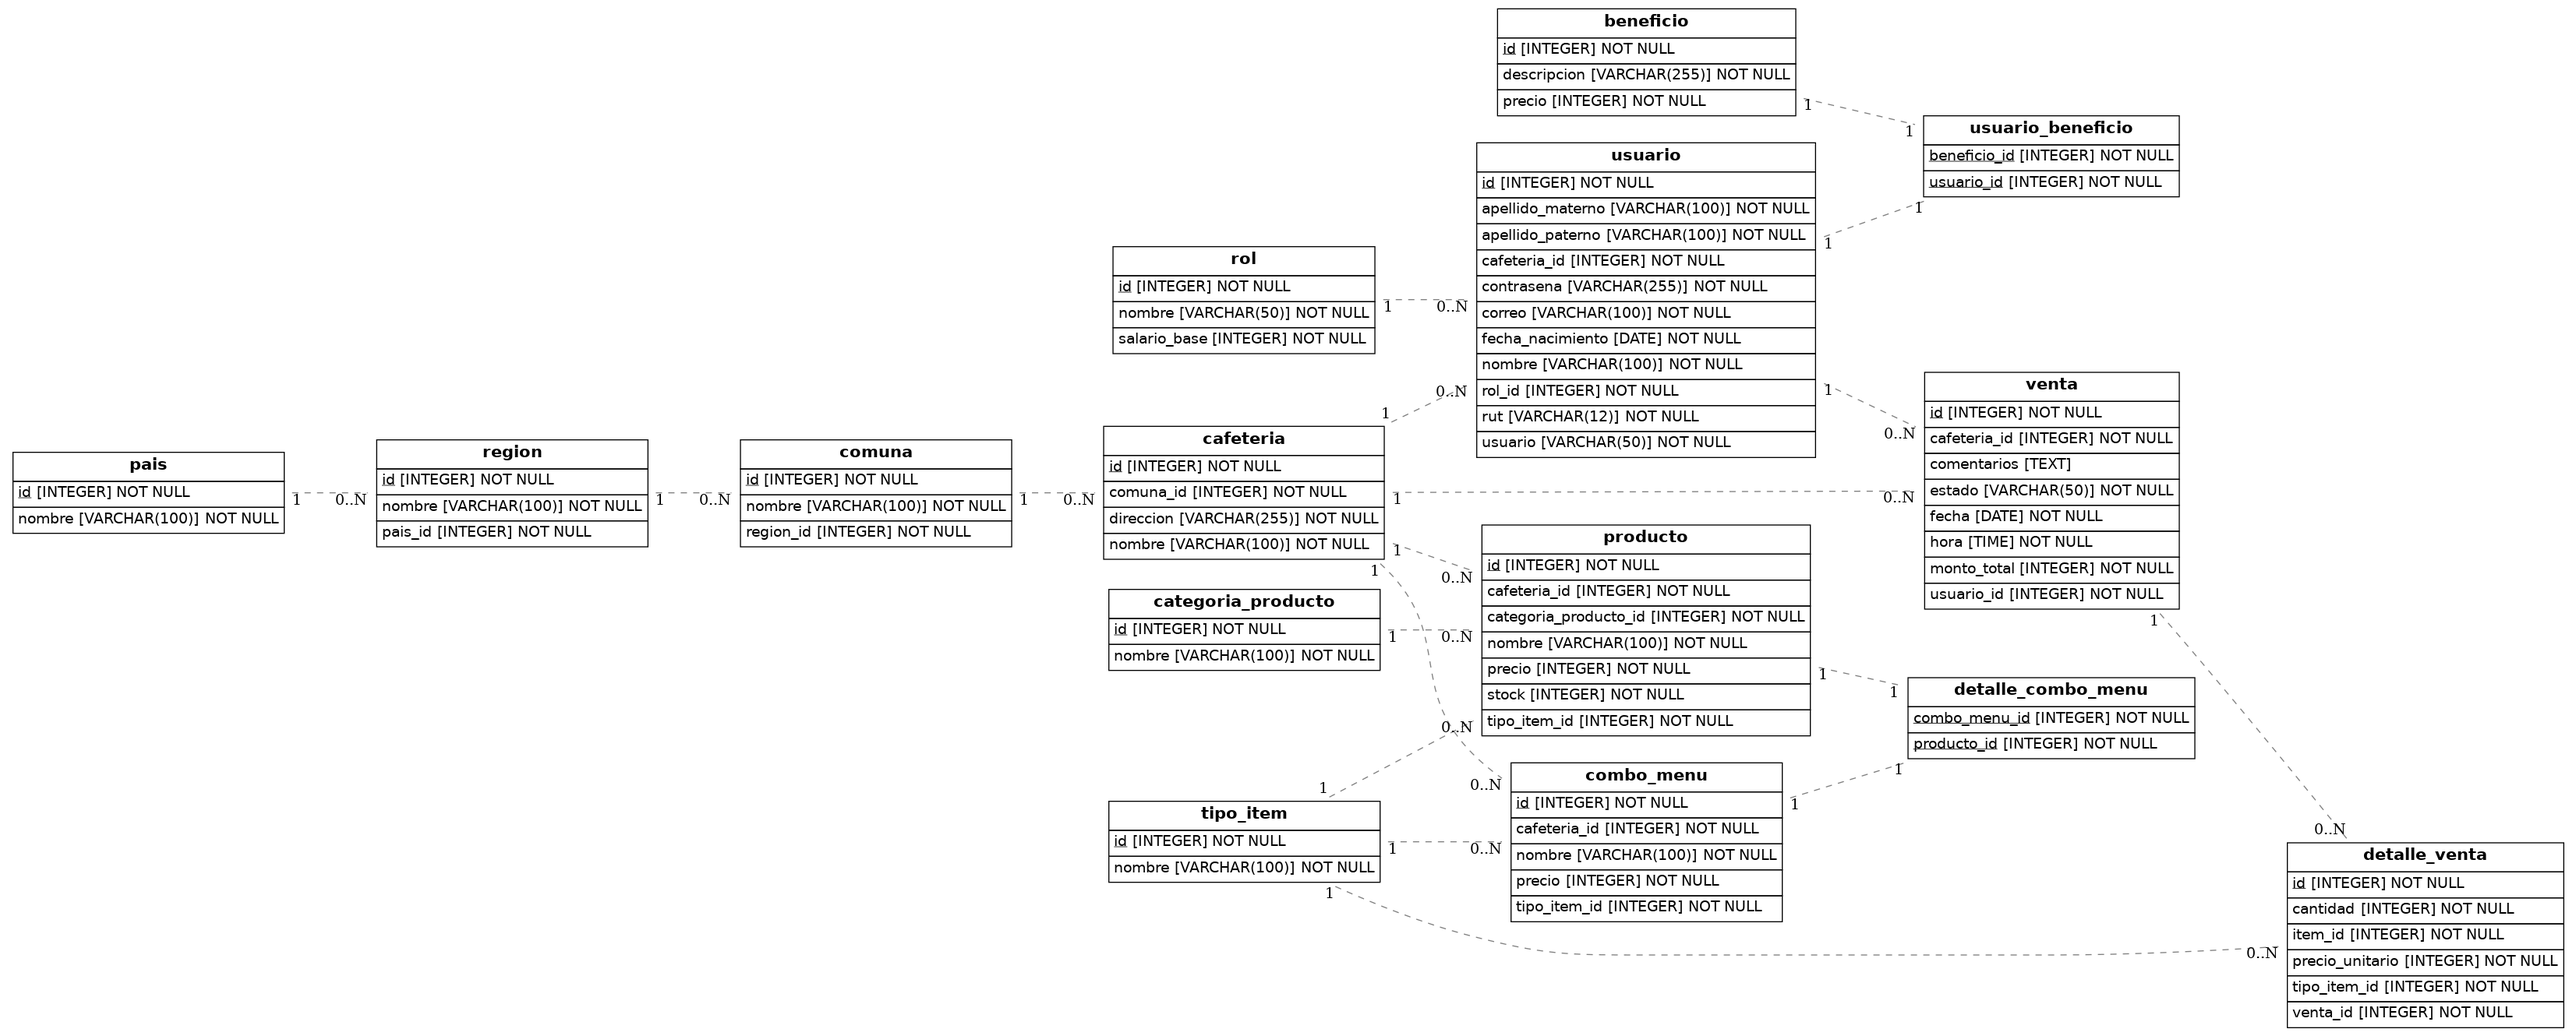
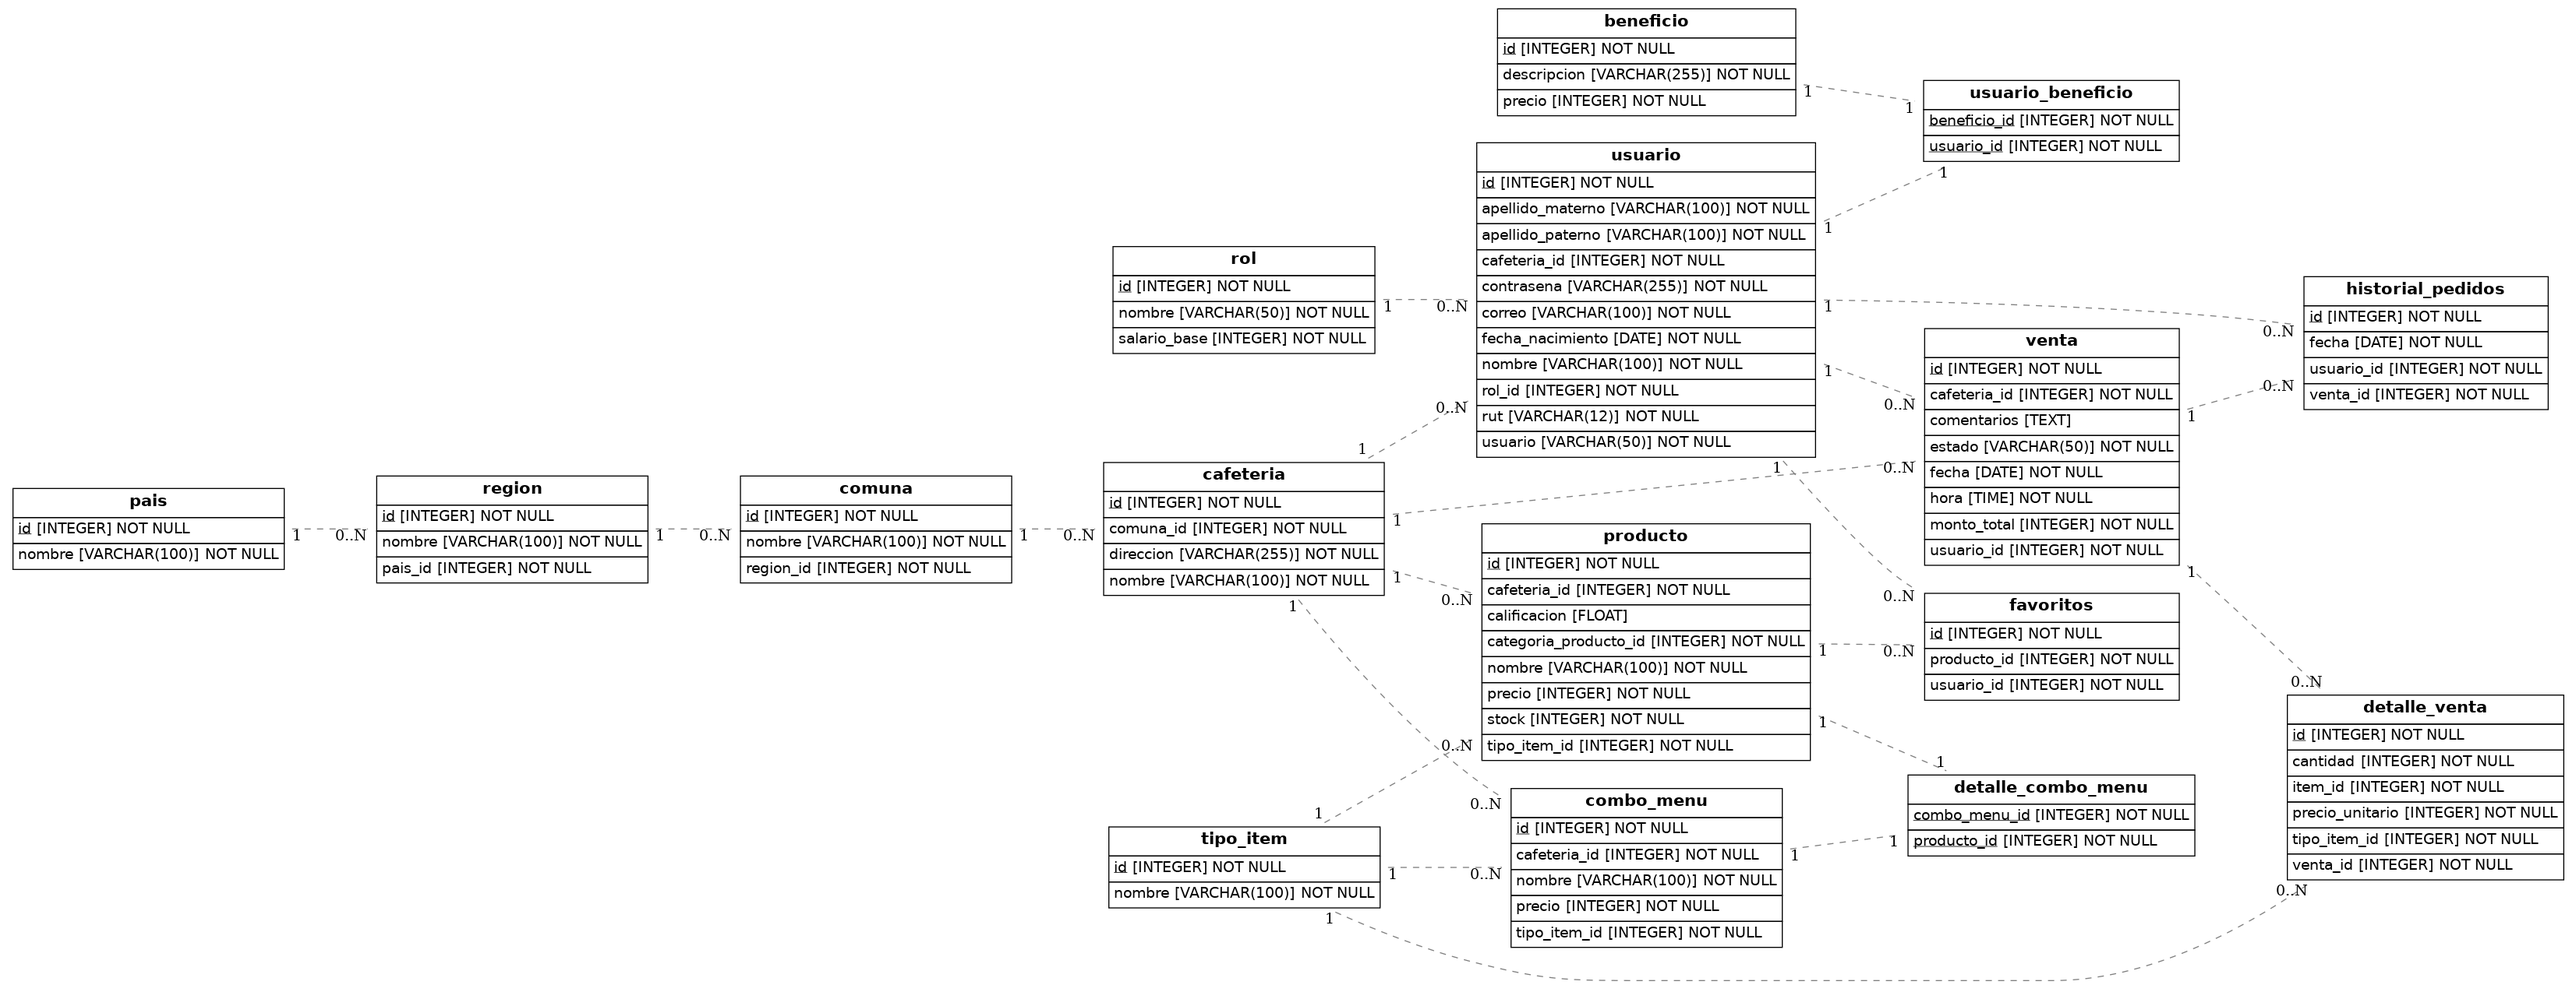
new diagram

diff --git a/src/models.py b/src/models.py
@@ -1,6 +1,6 @@
 import os
 import sys
-from sqlalchemy import Column, ForeignKey, Integer, String, Date, Time, Table, Text
+from sqlalchemy import Column, ForeignKey, Integer, String, Date, Time, Table, Text, Float, Boolean
 from sqlalchemy.orm import relationship, declarative_base
 from sqlalchemy import create_engine
 from eralchemy2 import render_er
@@ -13,7 +13,6 @@ class Pais(Base):
     id = Column(Integer, primary_key=True, autoincrement=True)
     nombre = Column(String(100), nullable=False)
 
-    # Relación con regiones
     regiones = relationship('Region')
 
 # Clase Región
@@ -22,11 +21,9 @@ class Region(Base):
     id = Column(Integer, primary_key=True, autoincrement=True)
     nombre = Column(String(100), nullable=False)
 
-    # Foreign Key para país
     pais_id = Column(Integer, ForeignKey('pais.id'), nullable=False)
     pais = relationship('Pais')
 
-    # Relación con comunas
     comunas = relationship('Comuna')
 
 # Clase Comuna
@@ -35,7 +32,6 @@ class Comuna(Base):
     id = Column(Integer, primary_key=True, autoincrement=True)
     nombre = Column(String(100), nullable=False)
 
-    # Foreign Key para región
     region_id = Column(Integer, ForeignKey('region.id'), nullable=False)
     region = relationship('Region')
 
@@ -59,7 +55,22 @@ usuario_beneficio = Table('usuario_beneficio', Base.metadata,
     Column('beneficio_id', Integer, ForeignKey('beneficio.id'), primary_key=True)
 )
 
-# Clase Usuario (anteriormente User)
+# Nueva tabla Favoritos
+class Favoritos(Base):
+    __tablename__ = 'favoritos'
+    id = Column(Integer, primary_key=True, autoincrement=True)
+    usuario_id = Column(Integer, ForeignKey('usuario.id'), nullable=False)
+    producto_id = Column(Integer, ForeignKey('producto.id'), nullable=False)
+
+# Nueva tabla HistorialPedidos
+class HistorialPedidos(Base):
+    __tablename__ = 'historial_pedidos'
+    id = Column(Integer, primary_key=True, autoincrement=True)
+    usuario_id = Column(Integer, ForeignKey('usuario.id'), nullable=False)
+    venta_id = Column(Integer, ForeignKey('venta.id'), nullable=False)
+    fecha = Column(Date, nullable=False)
+
+# Clase Usuario
 class Usuario(Base):
     __tablename__ = 'usuario'
     id = Column(Integer, primary_key=True, autoincrement=True)
@@ -69,67 +80,57 @@ class Usuario(Base):
     rut = Column(String(12), unique=True, nullable=False)
     fecha_nacimiento = Column(Date, nullable=False)
     
-    # Nuevos campos para el login
-    usuario = Column(String(50), unique=True, nullable=False)  # Usuario único para el login
-    correo = Column(String(100), unique=True, nullable=False)  # Correo único para el login
-    contrasena = Column(String(255), nullable=False)  # Contraseña encriptada para el login
+    usuario = Column(String(50), unique=True, nullable=False)  
+    correo = Column(String(100), unique=True, nullable=False)  
+    contrasena = Column(String(255), nullable=False)  
 
-    # Foreign Key y Relaciones
     rol_id = Column(Integer, ForeignKey('rol.id'), nullable=False)
     rol = relationship('Rol')
 
-    # Relación con beneficios a través de la tabla intermedia
     beneficios = relationship('Beneficio', secondary=usuario_beneficio)
-
-    # Foreign Key para la cafetería
     cafeteria_id = Column(Integer, ForeignKey('cafeteria.id'), nullable=False)
     cafeteria = relationship('Cafeteria')
 
-# Clase Producto (Se venden individualmente)
+    # Nuevas relaciones para favoritos y historial de pedidos
+    favoritos = relationship('Favoritos')
+    historial_pedidos = relationship('HistorialPedidos')
+
+# Clase Producto
 class Producto(Base):
     __tablename__ = 'producto'
     id = Column(Integer, primary_key=True, autoincrement=True)
     nombre = Column(String(100), nullable=False)
     precio = Column(Integer, nullable=False)
     stock = Column(Integer, nullable=False, default=0)
-
-    # Foreign Key y relación con categoría de producto
+    
     categoria_producto_id = Column(Integer, ForeignKey('categoria_producto.id'), nullable=False)
     categoria_producto = relationship('CategoriaProducto')
 
-    # Foreign Key para cafetería
     cafeteria_id = Column(Integer, ForeignKey('cafeteria.id'), nullable=False)
     cafeteria = relationship('Cafeteria', back_populates='productos')
 
-    # Foreign Key para tipo de ítem
     tipo_item_id = Column(Integer, ForeignKey('tipo_item.id'), nullable=False)
     tipo_item = relationship('TipoItem')
 
-# Clase CategoriaProducto
-class CategoriaProducto(Base):
-    __tablename__ = 'categoria_producto'
-    id = Column(Integer, primary_key=True, autoincrement=True)
-    nombre = Column(String(100), nullable=False)
+    # Campo de calificación de producto
+    calificacion = Column(Float, default=0.0)  # Calificación de 0 a 5
 
-# Clase ComboMenu (Contiene los combos)
+# Clase ComboMenu
 class ComboMenu(Base):
     __tablename__ = 'combo_menu'
     id = Column(Integer, primary_key=True, autoincrement=True)
     nombre = Column(String(100), nullable=False)
     precio = Column(Integer, nullable=False)
 
-    # Foreign Key para la cafetería
     cafeteria_id = Column(Integer, ForeignKey('cafeteria.id'), nullable=False)
     cafeteria = relationship('Cafeteria')
 
-    # Foreign Key para tipo de ítem
     tipo_item_id = Column(Integer, ForeignKey('tipo_item.id'), nullable=False)
     tipo_item = relationship('TipoItem')
 
-    # Relación con productos a través de la tabla intermedia
     productos = relationship('Producto', secondary='detalle_combo_menu')
 
-# Tabla intermedia para la relación muchos a muchos entre ComboMenu y Producto
+# Tabla intermedia ComboMenu-Producto
 detalle_combo_menu = Table('detalle_combo_menu', Base.metadata,
     Column('combo_menu_id', Integer, ForeignKey('combo_menu.id'), primary_key=True),
     Column('producto_id', Integer, ForeignKey('producto.id'), primary_key=True)
@@ -142,20 +143,18 @@ class Cafeteria(Base):
     nombre = Column(String(100), nullable=False)
     direccion = Column(String(255), nullable=False)
 
-    # Foreign Key para comuna
     comuna_id = Column(Integer, ForeignKey('comuna.id'), nullable=False)
     comuna = relationship('Comuna')
 
-    # Relaciones
-    usuarios = relationship('Usuario')  # Relación con usuarios
-    productos = relationship('Producto', back_populates='cafeteria')  # Relación con productos
-    combos = relationship('ComboMenu')  # Relación con combos
+    usuarios = relationship('Usuario')  
+    productos = relationship('Producto', back_populates='cafeteria')  
+    combos = relationship('ComboMenu')  
 
 # Clase TipoItem
 class TipoItem(Base):
     __tablename__ = 'tipo_item'
     id = Column(Integer, primary_key=True, autoincrement=True)
-    nombre = Column(String(100), nullable=False)  # Tipo de ítem: 'producto' o 'combo'
+    nombre = Column(String(100), nullable=False)
 
 # Clase Venta
 class Venta(Base):
@@ -164,13 +163,13 @@ class Venta(Base):
     fecha = Column(Date, nullable=False)
     hora = Column(Time, nullable=False)
     monto_total = Column(Integer, nullable=False)
-    estado = Column(String(50), nullable=False, default="pendiente")  # Estado de la venta
-    comentarios = Column(Text, nullable=True)  # Campo para comentarios opcionales
-    usuario_id = Column(Integer, ForeignKey('usuario.id'), nullable=False)  # Cambiado a usuario_id
+    estado = Column(String(50), nullable=False, default="pendiente")
+    comentarios = Column(Text, nullable=True)
+    
+    usuario_id = Column(Integer, ForeignKey('usuario.id'), nullable=False)
     cafeteria_id = Column(Integer, ForeignKey('cafeteria.id'), nullable=False)
 
-    # Relaciones
-    usuario = relationship('Usuario')  # Relación con Usuario
+    usuario = relationship('Usuario')
     cafeteria = relationship('Cafeteria')
     detalles = relationship('DetalleVenta', back_populates='venta')
 
@@ -179,23 +178,17 @@ class DetalleVenta(Base):
     __tablename__ = 'detalle_venta'
     id = Column(Integer, primary_key=True, autoincrement=True)
     
-    # Foreign Key para la venta
     venta_id = Column(Integer, ForeignKey('venta.id'), nullable=False)
+    item_id = Column(Integer, nullable=False)
+    tipo_item_id = Column(Integer, ForeignKey('tipo_item.id'), nullable=False)
+    tipo_item = relationship('TipoItem')
 
-    # Foreign Key para el ítem (puede ser Producto o ComboMenu)
-    item_id = Column(Integer, nullable=False)  # ID del producto o combo
-    
-    # Foreign Key para el tipo de ítem
-    tipo_item_id = Column(Integer, ForeignKey('tipo_item.id'), nullable=False)  # Relación con TipoItem
-    tipo_item = relationship('TipoItem')  # Relación con la tabla TipoItem
-    
     cantidad = Column(Integer, nullable=False)
     precio_unitario = Column(Integer, nullable=False)
     
-    # Relación con la tabla Venta
     venta = relationship('Venta', back_populates='detalles')
 
-# Configurar conexión a la base de datos (añadir motor a la base de datos)
+# Configurar conexión a la base de datos
 # engine = create_engine('postgresql://usuario:password@localhost:5432/mi_base_de_datos')
 # Base.metadata.create_all(engine)
 
